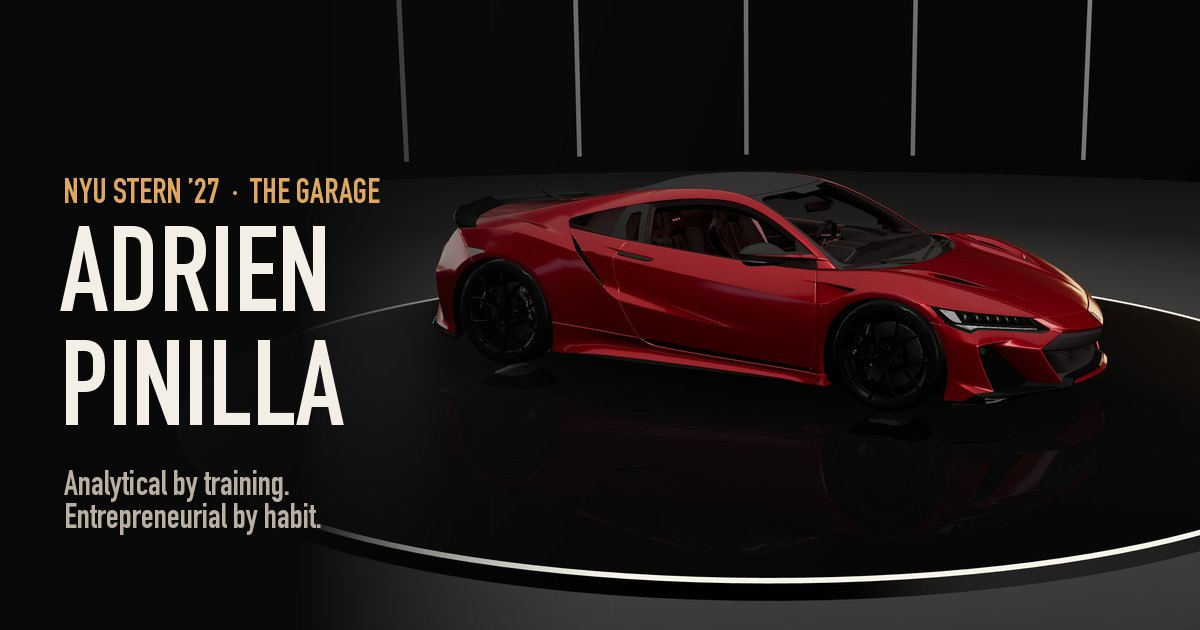
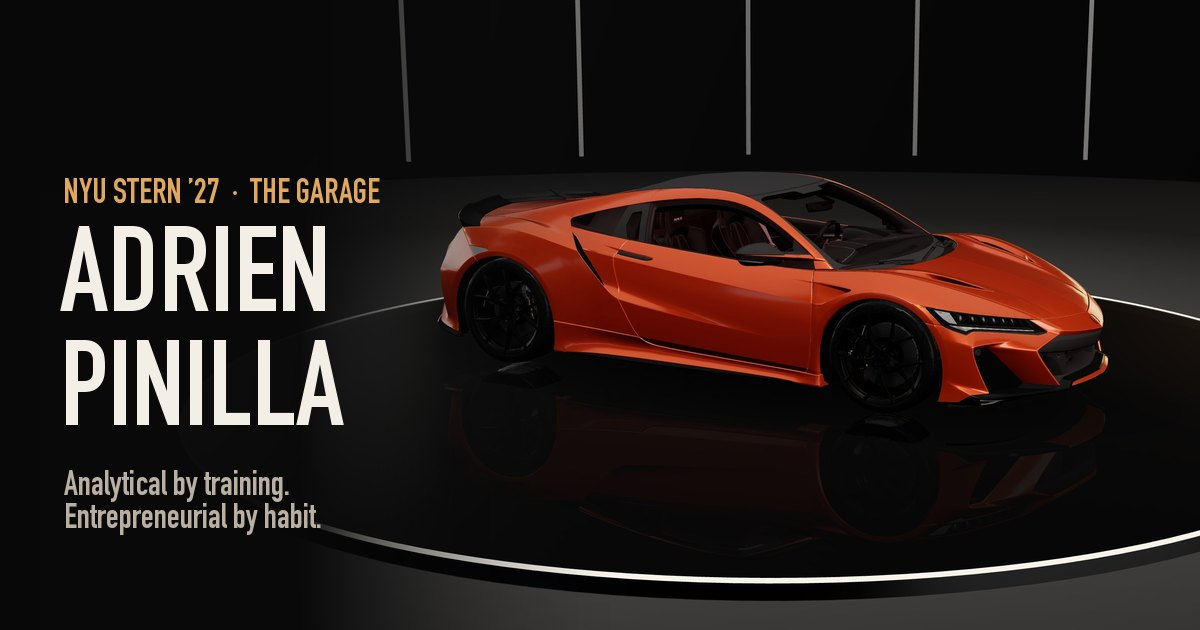
Play music in the listening room, paint the NSX orange, tie plates to the hood
- Records in the crate now play a 30-second Apple Music preview of a
  signature track (Runaway, Flashing Lights, Juna, From The Start, Happier
  Than Ever). The vinyl spins and the arm drops only while it's playing;
  click the same record to pause. Each links to the full song.
- The On Rotation tape plays its five tracks in order, with working
  prev/next/pause; other tapes stay as liner notes. Music stops on eject,
  closing the lid or leaving the room.
- NSX repainted Thermal Orange Pearl; share card re-rendered to match
- The bay nameplate now rises and fades in over the last part of the hood
  opening and fades out as it closes, instead of popping on and off

diff --git a/garage.js b/garage.js
@@ -21,7 +21,7 @@ var CARS = [
   {
     id: 'experience', title: 'Experience', kicker: 'Chapter I', roman: 'I',
     year: 2022, make: 'Acura', model: 'NSX Type S', spec: '600 hp · 3.5L twin-turbo V6 hybrid · AWD', file: 'nsx',
-    paint: /^Acura.*Paint_Material$/, color: '#a10f18', metal: 0.55,
+    paint: /^Acura.*Paint_Material$/, color: '#e0520f', metal: 0.5, // Thermal Orange Pearl
     hood: { meshes: /paint|carbon/i, region: { x: 0.9, y: 0.5, z: [0.8, 2.2] }, hinge: 'rear', angle: 0.95 },
     plate: 'EY · Fulton · Arête',
     stats: [['80 of 700+', 'EY selection'], ['3', 'Roles'], ['Adopted', 'Arête redesign'], ['On sale', 'Fulton slipper']],
@@ -101,11 +101,11 @@ var CONTACT = {
 
 var TAPES = [
   { title: 'On Rotation', tape: '#c8102e', tracks: [
-    ['My Beautiful Dark Twisted Fantasy', 'Kanye West · 2010', ''],
-    ['Graduation', 'Kanye West · 2007', ''],
-    ['Charm', 'Clairo · 2024', ''],
-    ['Bewitched', 'Laufey · 2023', ''],
-    ['Happier Than Ever', 'Billie Eilish · 2021', '']
+    ['My Beautiful Dark Twisted Fantasy', 'Kanye West · 2010', '', 1443160699],
+    ['Graduation', 'Kanye West · 2007', '', 1442846712],
+    ['Charm', 'Clairo · 2024', '', 1742301428],
+    ['Bewitched', 'Laufey · 2023', '', 1690609217],
+    ['Happier Than Ever', 'Billie Eilish · 2021', '', 1564530710]
   ]},
   { title: 'Collections', tape: '#e0a85e', tracks: [
     ['LEGO', '', 'Favorite set: the Star Wars Republic Dropship with AT-OT Walker.'],
@@ -119,12 +119,13 @@ var TAPES = [
     ['Fashion & hospitality', '', 'Two industries I follow closely, and part of why Arête and hospitality are on my list.']
   ]}
 ];
+// [album, artist, sleeve colour, label text, Apple Music ID of the track that plays]
 var ALBUMS = [
-  ['My Beautiful Dark Twisted Fantasy', 'Kanye West', '#c4161c', 'MBDTF'],
-  ['Graduation', 'Kanye West', '#b34fc0', 'Graduation'],
-  ['Charm', 'Clairo', '#8f9057', 'Charm'],
-  ['Bewitched', 'Laufey', '#7d93bd', 'Bewitched'],
-  ['Happier Than Ever', 'Billie Eilish', '#c9b48a', 'Happier Than Ever']
+  ['My Beautiful Dark Twisted Fantasy', 'Kanye West', '#c4161c', 'MBDTF', 1443160699],
+  ['Graduation', 'Kanye West', '#b34fc0', 'Graduation', 1442846712],
+  ['Charm', 'Clairo', '#8f9057', 'Charm', 1742301428],
+  ['Bewitched', 'Laufey', '#7d93bd', 'Bewitched', 1690609217],
+  ['Happier Than Ever', 'Billie Eilish', '#c9b48a', 'Happier Than Ever', 1564530710]
 ];
 
 /* ---------- Renderer, studio and turntable ---------- */
@@ -467,7 +468,11 @@ function swingHood(to, ms) {
   var car = current, h = car.hood, a0 = h.pivot.rotation.x;
   return tween(ms, function (k) {
     h.pivot.rotation.x = car.mirrorHood.rotation.x = a0 + (to - a0) * k;
-    car.lamp.intensity = 3.5 * (h.pivot.rotation.x / h.open);
+    var p = h.pivot.rotation.x / h.open, show = Math.min(1, Math.max(0, (p - 0.55) / 0.4));
+    car.lamp.intensity = 3.5 * p;
+    car.plate.visible = show > 0;
+    car.plate.material.opacity = show * show * (3 - 2 * show);
+    car.plate.position.y = car.bay.y - 0.14 * (1 - show);
   });
 }
 
@@ -544,7 +549,6 @@ async function openHood() {
   // Where the camera will sit, in the car's own frame (the turntable is still turning), so the plate faces it
   var camLocal = view.pos.clone().sub(new THREE.Vector3(0, DISC, 0)).applyAxisAngle(new THREE.Vector3(0, 1, 0), -angle);
   car.plate.quaternion.setFromRotationMatrix(new THREE.Matrix4().lookAt(camLocal, car.plate.position, new THREE.Vector3(0, 1, 0)));
-  car.plate.visible = true;
   await Promise.all([
     spinTo(angle, 1100),
     moveCamera(view, 1400),
@@ -563,11 +567,10 @@ async function closeHood(quick) {
   closePanel();
   body.classList.remove('hood');
   await Promise.all([
-    swingHood(0, ms * 0.8),
+    swingHood(0, ms * 0.7),
     moveCamera(homeView(), ms * 1.2),
     shiftTo(restShift(), ms)
   ]);
-  current.plate.visible = false;
   hoodOpen = false;
   controls.enabled = true;
   idleSpin = !still;
@@ -685,16 +688,50 @@ function sync() {
   layer(deck, deckOpen);
 }
 
+/* ---------- Music: Apple Music's 30-second previews ---------- */
+var SONGS = {}, songsReady = null, onSongEnd = null;
+var audio = new Audio();
+audio.volume = 0.85;
+audio.addEventListener('ended', function () { if (onSongEnd) onSongEnd(); });
+function loadSongs() {
+  if (!songsReady) {
+    songsReady = fetch('https://itunes.apple.com/lookup?id=' + ALBUMS.map(function (a) { return a[4]; }).join(','))
+      .then(function (r) { return r.json(); })
+      .then(function (d) {
+        d.results.forEach(function (r) {
+          if (r.previewUrl) SONGS[r.trackId] = { src: r.previewUrl, url: r.trackViewUrl, name: r.trackName.replace(/ \(feat\..*\)$/, '') };
+        });
+      })
+      .catch(function (e) { songsReady = null; throw e; });
+  }
+  return songsReady;
+}
+function playSong(id, done) {
+  onSongEnd = done || null;
+  function go() {
+    var s = SONGS[id];
+    if (!s) throw new Error('No preview for ' + id);
+    if (audio.src !== s.src) audio.src = s.src;
+    return audio.play().then(function () { return s; });
+  }
+  return SONGS[id] ? go() : loadSongs().then(go);
+}
+function stopSong() { onSongEnd = null; audio.pause(); }
+function appleLink(s) { return '<a href="' + s.url + '" target="_blank" rel="noopener">Full song on Apple Music ↗</a>'; }
+
 /* ---------- Listening room ---------- */
-var tt = $('tt'), deck = $('deck'), label = $('label');
+var tt = $('tt'), deck = $('deck'), label = $('label'), spinning = -1;
 function openRoom() {
   if (hoodOpen) closeHood(true);
+  loadSongs().catch(function () {});
   body.classList.add('room-open');
   sync();
   history.replaceState(null, '', '#room');
   $('room-close').focus({ preventScroll: true });
 }
 function leaveRoom() {
+  stopRecord();
+  if (deck.classList.contains('open')) eject();
   body.classList.remove('room-open');
   sync();
   history.replaceState(null, '', '#' + current.c.id);
@@ -706,6 +743,15 @@ $('room-close').addEventListener('click', leaveRoom);
 function toggleLid(force) {
   var open = tt.classList.toggle('open', force);
   tt.setAttribute('aria-label', open ? 'Close the record player' : 'Open the record player');
+  if (!open) stopRecord();
+}
+function stopRecord(note) {
+  if (spinning < 0) return;
+  spinning = -1;
+  stopSong();
+  tt.classList.remove('playing');
+  $('crate').querySelectorAll('.on').forEach(function (o) { o.classList.remove('on'); });
+  $('now').textContent = note || 'Pick a record from the crate.';
 }
 tt.addEventListener('click', function () { toggleLid(); });
 tt.addEventListener('keydown', function (e) { if (e.key === 'Enter' || e.key === ' ') { e.preventDefault(); toggleLid(); } });
@@ -716,12 +762,32 @@ ALBUMS.forEach(function (a) {
   b.style.setProperty('--s', 'linear-gradient(145deg,' + a[2] + ', #1a1a1a)');
   b.setAttribute('aria-label', 'Put on ' + a[0] + ' by ' + a[1]);
   b.addEventListener('click', function () {
+    var i = ALBUMS.indexOf(a);
+    // Same record again: lift the needle, or drop it back
+    if (spinning === i) {
+      if (audio.paused) { audio.play(); tt.classList.add('playing'); } else { audio.pause(); tt.classList.remove('playing'); }
+      return;
+    }
+    stopRecord();
     $('crate').querySelectorAll('.on').forEach(function (o) { o.classList.remove('on'); });
     b.classList.add('on');
     label.style.setProperty('--lbl', a[2]);
     $('label-text').textContent = a[3];
-    $('now').innerHTML = '♪ Now spinning: <b>' + a[0] + '</b> · ' + a[1];
     toggleLid(true);
+    spinning = i;
+    $('now').innerHTML = 'Dropping the needle on <b>' + a[0] + '</b>…';
+    playSong(a[4], function () { stopRecord('That’s the preview. Pick another record.'); })
+      .then(function (s) {
+        if (spinning !== i) return;
+        tt.classList.add('playing');
+        $('now').innerHTML = '♪ <b>' + s.name + '</b> · ' + a[1] + ' · 30-sec preview<br>' + appleLink(s);
+      })
+      .catch(function () {
+        if (spinning !== i) return;
+        spinning = -1;
+        b.classList.remove('on');
+        $('now').textContent = 'Couldn’t reach Apple Music. Try again in a moment.';
+      });
   });
   $('crate').appendChild(b);
 });
@@ -743,23 +809,38 @@ function insert(i) {
     tape.tracks.map(function (tr, n) {
       return '<li><span class="n">B' + (n + 1) + '</span><b>' + tr[0] + (tr[1] ? '<em>' + tr[1] + '</em>' : '') + '</b>' + (tr[2] ? '<p>' + tr[2] + '</p>' : '') + '</li>';
     }).join('') + '</ol>';
+  stopRecord();
+  audio.removeAttribute('src'); // so the deck can't resume whatever played last
   deck.classList.add('open'); sync();
-  setPlaying(true); mark();
+  setPlaying(true); cue();
   $('t-eject').focus({ preventScroll: true });
 }
 function mark() { $('jcard').querySelectorAll('.tracks li').forEach(function (li, n) { li.classList.toggle('now-playing', n === track); }); }
+// Play the current track if it's a song; the tape rolls on to the next one when the preview ends
+function cue() {
+  mark();
+  var id = tape.tracks[track][3], li = $('jcard').querySelectorAll('.tracks li')[track];
+  if (!id) return;
+  playSong(id, function () {
+    if (track < tape.tracks.length - 1) { track++; cue(); } else setPlaying(false);
+  }).then(function (s) {
+    if (!playing) audio.pause();
+    if (li && !li.querySelector('.via')) li.insertAdjacentHTML('beforeend', '<p class="via">30-sec preview · ' + appleLink(s) + '</p>');
+  }).catch(function () {});
+}
 function setPlaying(p) {
   playing = p;
   $('cassette').classList.toggle('playing', p);
   $('t-play').textContent = p ? '⏸' : '▶';
   clearInterval(timer);
   if (p) timer = setInterval(function () { secs++; $('counter').textContent = String(secs).padStart(3, '0'); }, 1000);
+  if (tape && tape.tracks[track][3]) { if (p) audio.play().catch(function () {}); else audio.pause(); }
 }
-function eject() { deck.classList.remove('open'); sync(); setPlaying(false); if (lastSpine) lastSpine.focus({ preventScroll: true }); }
+function eject() { deck.classList.remove('open'); sync(); setPlaying(false); stopSong(); if (lastSpine) lastSpine.focus({ preventScroll: true }); }
 $('t-eject').addEventListener('click', eject);
 $('t-play').addEventListener('click', function () { setPlaying(!playing); });
-$('t-next').addEventListener('click', function () { track = Math.min(track + 1, tape.tracks.length - 1); mark(); });
-$('t-prev').addEventListener('click', function () { track = Math.max(track - 1, 0); mark(); });
+$('t-next').addEventListener('click', function () { if (track < tape.tracks.length - 1) { track++; stopSong(); cue(); } });
+$('t-prev').addEventListener('click', function () { if (track > 0) { track--; stopSong(); cue(); } });
 deck.addEventListener('click', function (e) { if (e.target === deck) eject(); });
 
 /* ---------- Keyboard ---------- */
@@ -799,4 +880,4 @@ show(at >= 0 ? at : 0, { keepHash: true }).then(function () {
   setTimeout(function () { toast.classList.add('show'); }, 1200);
   setTimeout(function () { toast.classList.remove('show'); }, 6500);
 });
-window.__garage = { scene: scene, camera: camera, renderer: renderer, get current() { return current; }, show: show, openHood: openHood, closeHood: closeHood, turntable: turntable, controls: controls };
+window.__garage = { audio: audio, scene: scene, camera: camera, renderer: renderer, get current() { return current; }, show: show, openHood: openHood, closeHood: closeHood, turntable: turntable, controls: controls };

diff --git a/index.html b/index.html
@@ -201,8 +201,8 @@ a.pill:hover, button.pill:hover { border-color: var(--amber); color: var(--amber
 .cover::before { content: ""; position: absolute; inset: 0; border-radius: 12px; background: linear-gradient(115deg, transparent 30%, rgba(255, 255, 255, .12) 42%, transparent 52%); }
 .cover span { font: 600 .8rem/1 var(--cond); letter-spacing: .22em; text-transform: uppercase; background: rgba(13, 11, 9, .6); padding: 10px 14px; border: 1px solid var(--line); }
 .tt.open .cover { transform: rotateX(82deg); opacity: .3; }
-.tt.open .arm { transform: rotate(26deg); }
-.tt.open .vinyl { animation: spin 1.8s linear infinite 1.2s; }
+.tt.playing .arm { transform: rotate(26deg); }
+.tt.playing .vinyl { animation: spin 1.8s linear infinite .9s; }
 .crate { display: flex; gap: 8px; margin-top: 18px; align-items: center; }
 .crate small, .tower h3 { font: 600 .72rem/1 var(--cond); letter-spacing: .2em; text-transform: uppercase; color: var(--muted); }
 .crate small { margin-right: 4px; }
@@ -211,6 +211,8 @@ a.pill:hover, button.pill:hover { border-color: var(--amber); color: var(--amber
 .sleeve-mini.on { box-shadow: 0 0 0 2px var(--amber), 0 4px 10px rgba(0, 0, 0, .5); }
 .now { font-size: .78rem; color: var(--muted); margin-top: 10px; min-height: 1.3em; }
 .now b { color: var(--ivory); font-weight: 500; }
+.now a, .tracks .via a { color: var(--amber); }
+.tracks .via { font-size: .74rem; color: #8a5a2b; margin-top: 2px; }
 .notes { align-self: center; margin-bottom: 40px; background: var(--paper); color: #2a1d10; padding: 26px 28px; border-radius: 2px; box-shadow: 0 20px 40px rgba(0, 0, 0, .6); transform: rotate(-1.5deg); max-width: 400px; }
 .notes small { font: 600 .7rem/1 var(--cond); letter-spacing: .2em; text-transform: uppercase; color: #8a5a2b; }
 .notes h3 { font: 700 2rem/1 var(--cond); text-transform: uppercase; margin: 8px 0 10px; }
@@ -374,13 +376,13 @@ a.pill:hover, button.pill:hover { border-color: var(--amber); color: var(--amber
         <div class="cover"><span>Lift the lid ↑</span></div>
       </div>
       <div class="crate" id="crate"><small>Crate</small></div>
-      <p class="now" id="now">Pick a record from the crate.</p>
+      <p class="now" id="now" aria-live="polite">Pick a record from the crate.</p>
     </div>
     <div class="notes">
       <small>Liner notes · Side B</small>
       <h3>Off the clock</h3>
       <p>Records, tapes, LEGO, coins and cards. The collecting habit is where my first business came from.</p>
-      <p>Lift the lid and pick a record, or pull a tape from the tower.</p>
+      <p>Pick a record to hear it, or pull a tape from the tower. The On Rotation tape plays straight through.</p>
       <p class="hand">Hover a tape, then press play →</p>
     </div>
     <div class="tower">
